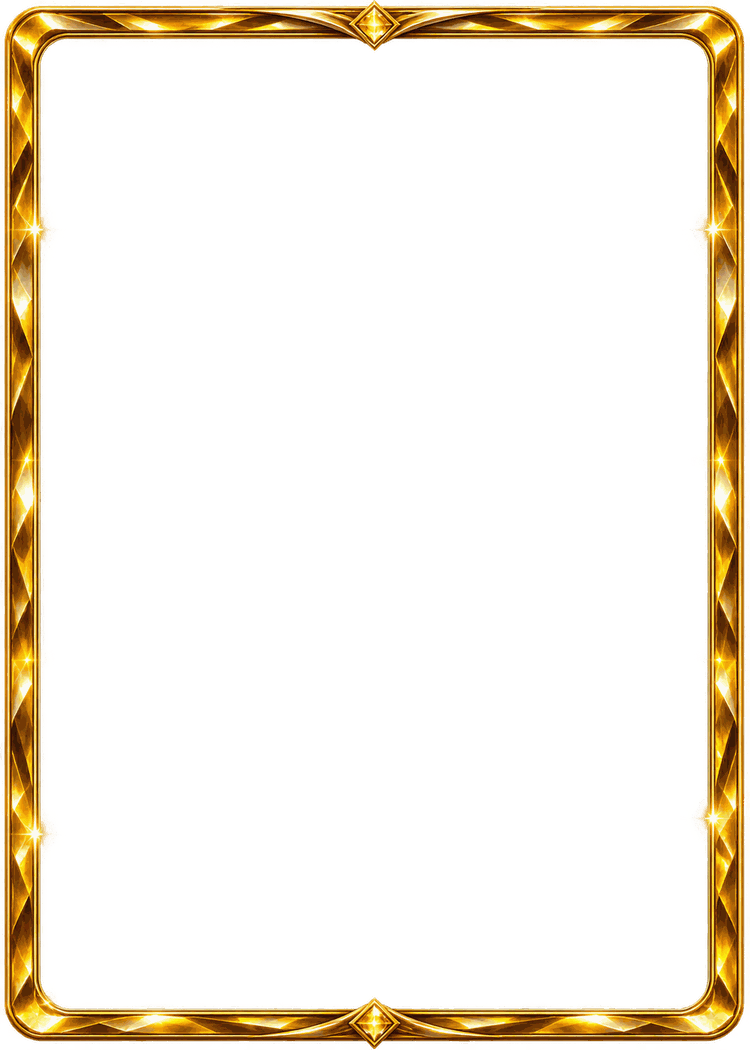
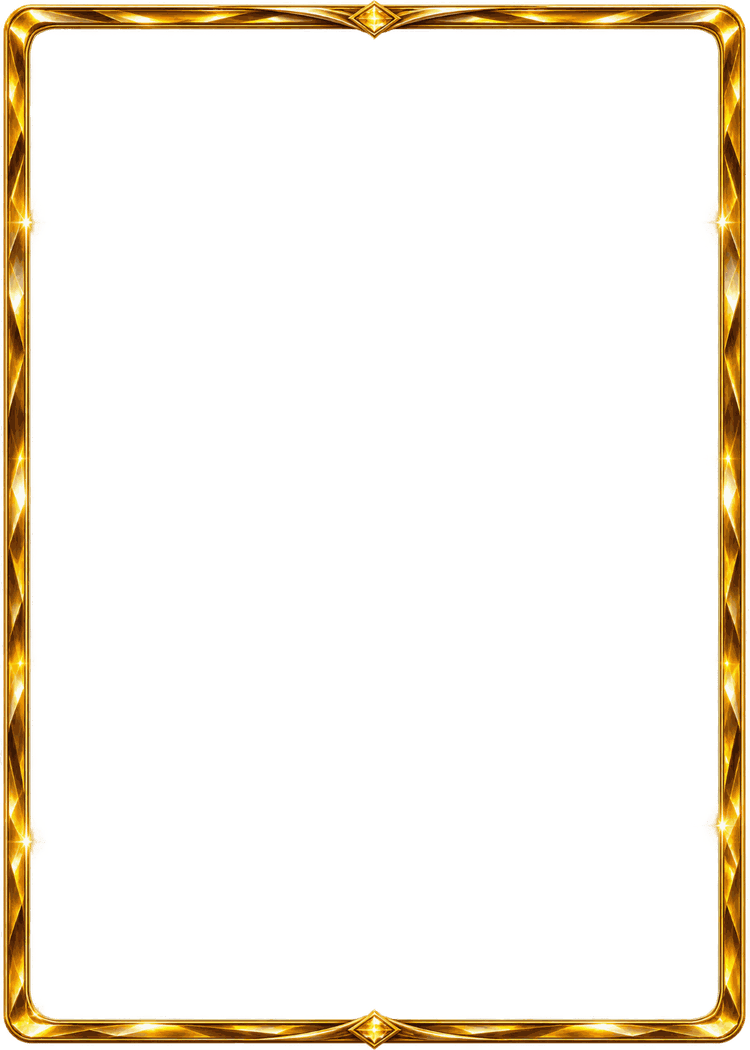
Card frames ~25% thinner on every tier
Each frame's outer 64px band (of Nick's 1024x1430 source) is remapped to 75% width with the transparent middle stretched to fill, so corners and ornaments keep their shape. Padding reduced to match: metals 3.4/3.4/3.6, X-Factor 2.7/3/3.3 (site cqw and Discord U).

Claude-Session: https://claude.ai/code/session_01A6jge7HxL5gr8jrdFJY3wr

Changed region(s): [[0.0, 0.0, 1.0, 1.0]]

diff --git a/src/app/globals.css b/src/app/globals.css
@@ -828,8 +828,8 @@ details.panel[open] summary { margin-bottom: 8px; }
    The padding tucks the card's edge just under each frame so corner text isn't covered; the shadow follows the frame shape. */
 .t-normal { --frame: url("/frames/bronze.webp"); } .t-star { --frame: url("/frames/silver.webp"); }
 .t-super { --frame: url("/frames/gold.webp"); } .t-xf { --frame: url("/frames/xf.webp"); }
-.pcard .pcard-face, .pcard.static .pcard-face { background: none; box-shadow: none; padding: 4.6cqw 4.6cqw 4.8cqw; }
-.pcard.t-xf .pcard-face { padding: 3.6cqw 4cqw 4.4cqw; }
+.pcard .pcard-face, .pcard.static .pcard-face { background: none; box-shadow: none; padding: 3.4cqw 3.4cqw 3.6cqw; }
+.pcard.t-xf .pcard-face { padding: 2.7cqw 3cqw 3.3cqw; }
 .pcard-face::after { content: ""; position: absolute; inset: 0; z-index: 4; pointer-events: none;
   background: var(--frame) center / 100% 100% no-repeat; filter: drop-shadow(0 1.5cqw 3cqw rgba(0,0,0,.4)); }
 .t-xf .pcard-foil { background: linear-gradient(115deg, transparent 28%, rgba(255,120,160,.32) 44%, rgba(255,220,230,.38) 50%, rgba(255,120,160,.32) 56%, transparent 72%) var(--mx) var(--my) / 230% 230%;

diff --git a/src/lib/discord/cardImage.tsx b/src/lib/discord/cardImage.tsx
@@ -70,8 +70,8 @@ export async function withLogo<T extends { teamLogo?: string }>(p: T): Promise<T
 const frameStyle = (tier: number, U: number) =>
   frames[tier]
     ? tier === 3
-      ? { position: "relative" as const, paddingTop: 3.6 * U, paddingLeft: 4 * U, paddingRight: 4 * U, paddingBottom: 4.4 * U }
-      : { position: "relative" as const, paddingTop: 4.6 * U, paddingLeft: 4.6 * U, paddingRight: 4.6 * U, paddingBottom: 4.8 * U }
+      ? { position: "relative" as const, paddingTop: 2.7 * U, paddingLeft: 3 * U, paddingRight: 3 * U, paddingBottom: 3.3 * U }
+      : { position: "relative" as const, paddingTop: 3.4 * U, paddingLeft: 3.4 * U, paddingRight: 3.4 * U, paddingBottom: 3.6 * U }
     : { padding: 2.8 * U, backgroundImage: FACE[tier] };
 const frameOverlay = (tier: number, W: number, H: number) =>
   // eslint-disable-next-line @next/next/no-img-element
